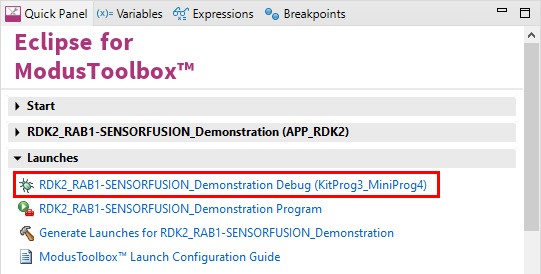
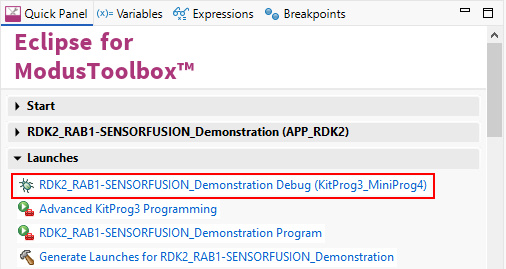
mtb 3.7 updates.

diff --git a/README.md b/README.md
@@ -15,7 +15,7 @@ U7			SHT41-AD1B-R2				0x44
 
 ```
 
-Firmware example running on the RDK2 initiates and tests all the sensors on the RAB1-SENSORFUSION board.
+A firmware example running on the RDK2 initiates and tests all sensors on the RAB1-SENSORFUSION board.
 
  <img src="images/SensorFusion_RDK2.jpg" style="zoom:10%;" />
 
@@ -27,11 +27,11 @@ The data from all the sensors of RAB1-SENSORFUSION is printed out to the KitProg
 
 ## Requirements
 
-- [ModusToolbox® software](https://www.infineon.com/cms/en/design-support/tools/sdk/modustoolbox-software/) **v2025.4.0** [built with **v3.0**]
+- [ModusToolbox® software](https://www.infineon.com/cms/en/design-support/tools/sdk/modustoolbox-software/) **v3.7** [built with **v3.0**]
 
 ## Supported toolchains (make variable 'TOOLCHAIN')
 
-- GNU Arm&reg; Embedded Compiler v11.3.1 (`GCC_ARM`) - Default value of `TOOLCHAIN`
+- GNU Arm&reg; Embedded Compiler v14.2.1 (`GCC_ARM`) - Default value of `TOOLCHAIN`
 
 ## Using the code example
 
@@ -142,7 +142,7 @@ For a list of supported IDEs and more details, see the "Exporting to IDEs" secti
 
 ### Debugging
 
-If you have successfully imported the example, the debug configurations are already prepared to use with the KitProg3, MiniProg4. Open the ModusToolbox perspective and find the Quick Panel. Click on the desired debug launch configuration and wait for the programming to complete and for the debugging process to start.
+If you have successfully imported the example, the debug configurations are already prepared to use with the KitProg3 and MiniProg4. Open the ModusToolbox perspective and find the Quick Panel. Click the desired debug launch configuration, then wait for programming to complete and the debugging process to start.
 
 <img src="images/debugging.jpg" style="zoom:100%;" />
 
